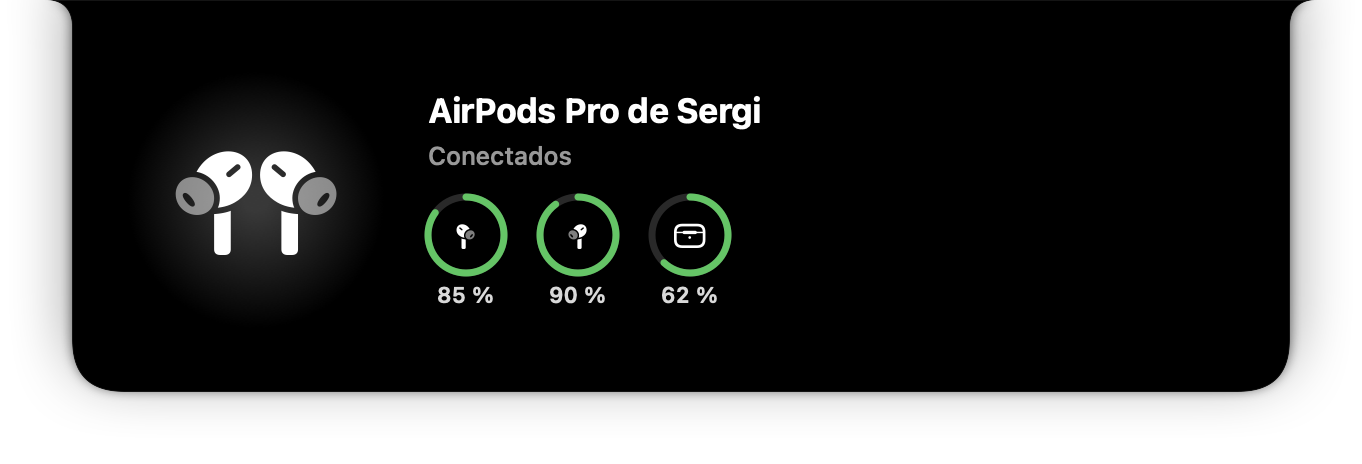
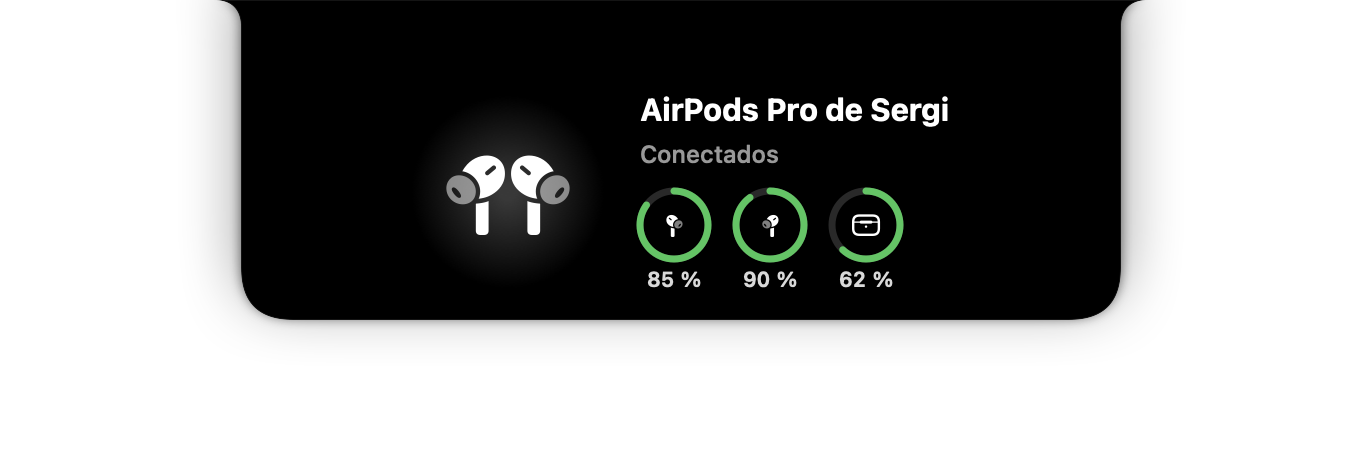
Tarjeta de AirPods más recogida y centrada, en la app y en la web

diff --git a/docs/site/index.html b/docs/site/index.html
@@ -79,25 +79,25 @@
   .stage .shape{position:absolute;left:36px;top:0;width:609px;height:196px;filter:drop-shadow(0 18px 40px rgba(0,0,0,.65))}
   .stage .media{position:absolute;left:0;top:0;width:681px;height:232px;transition:opacity .28s ease}
   .stage.on .media{opacity:0}
-  .hcard{position:absolute;left:36px;top:0;width:609px;height:196px;display:flex;align-items:center;gap:22px;padding:0 28px;box-sizing:border-box;opacity:0;transition:opacity .3s ease;pointer-events:none;color:#fff}
+  .hcard{position:absolute;left:120.5px;top:0;width:440px;height:160px;display:flex;align-items:center;justify-content:center;gap:18px;padding:32px 24px 0;box-sizing:border-box;opacity:0;transition:opacity .3s ease;pointer-events:none;color:#fff}
   .stage.on .hcard{opacity:1}
-  .hcard .dev{width:128px;height:128px;flex:none;display:flex;align-items:center;justify-content:center;background:radial-gradient(circle,rgba(255,255,255,.22) 0,rgba(255,255,255,0) 64px)}
-  .hcard .dev img{width:96px;transform:scale(.35) rotate(-14deg);opacity:0;transition:transform .6s cubic-bezier(.34,1.56,.64,1) .05s,opacity .35s ease .05s}
+  .hcard .dev{width:96px;height:96px;flex:none;display:flex;align-items:center;justify-content:center;background:radial-gradient(circle,rgba(255,255,255,.22) 0,rgba(255,255,255,0) 48px)}
+  .hcard .dev img{width:74px;transform:scale(.35) rotate(-14deg);opacity:0;transition:transform .6s cubic-bezier(.34,1.56,.64,1) .05s,opacity .35s ease .05s}
   .stage.on .hcard .dev img{transform:none;opacity:1}
   .hcard .txt{display:flex;flex-direction:column;gap:5px;opacity:0;transform:translateX(16px);transition:opacity .4s ease .1s,transform .55s cubic-bezier(.2,.8,.2,1) .1s}
   .stage.on .hcard .txt{opacity:1;transform:none}
-  .hcard .name{font-size:17px;font-weight:700;line-height:1.2}
-  .hcard .state{font-size:12.5px;font-weight:500;color:rgba(255,255,255,.6)}
-  .hcard .rings{display:flex;gap:18px;margin-top:8px;opacity:0;transform:scale(.6);transform-origin:left center;transition:opacity .35s ease,transform .5s cubic-bezier(.34,1.56,.64,1)}
+  .hcard .name{font-size:15.5px;font-weight:700;line-height:1.2}
+  .hcard .state{font-size:12px;font-weight:500;color:rgba(255,255,255,.6)}
+  .hcard .rings{display:flex;gap:14px;margin-top:6px;opacity:0;transform:scale(.6);transform-origin:left center;transition:opacity .35s ease,transform .5s cubic-bezier(.34,1.56,.64,1)}
   .stage.battery .hcard .rings{opacity:1;transform:none}
-  .ring{display:flex;flex-direction:column;align-items:center;gap:4px;font-size:11px;font-weight:600;font-variant-numeric:tabular-nums;color:rgba(255,255,255,.85)}
-  .ring svg{width:38px;height:38px;transform:rotate(-90deg)}
+  .ring{display:flex;flex-direction:column;align-items:center;gap:3px;font-size:10.5px;font-weight:600;font-variant-numeric:tabular-nums;color:rgba(255,255,255,.85)}
+  .ring svg{width:34px;height:34px;transform:rotate(-90deg)}
   .ring circle{fill:none;stroke-width:3.5;stroke-linecap:round}
   .ring .track{stroke:rgba(255,255,255,.16)}
   .ring .fill{stroke:#30d158;stroke-dasharray:106.8;stroke-dashoffset:106.8;transition:stroke-dashoffset .9s cubic-bezier(.2,.8,.2,1) .1s}
   .stage.battery .ring .fill{stroke-dashoffset:var(--off)}
   .ring img{position:absolute;width:13px;left:50%;top:50%;transform:translate(-50%,-50%)}
-  .ring .g{position:relative;width:38px;height:38px}
+  .ring .g{position:relative;width:34px;height:34px}
   .airpods{position:absolute;right:26px;bottom:18px;display:flex;align-items:center;gap:10px;padding:8px 14px 8px 10px;border-radius:999px;border:1px solid rgba(255,255,255,.18);background:rgba(255,255,255,.08);backdrop-filter:blur(12px);-webkit-backdrop-filter:blur(12px);color:#fff;font:600 13px -apple-system,"SF Pro Text",system-ui;cursor:pointer;transition:background .2s ease,transform .2s ease;animation:nudge 2.6s ease-in-out infinite}
   .airpods:hover{background:rgba(255,255,255,.16);transform:translateY(-1px)}
   .airpods img{width:34px;height:auto}
@@ -521,6 +521,11 @@
     let busy = false, timers = [];
     const later = (ms, fn) => timers.push(setTimeout(fn, ms));
     const count = (el, to, ms) => { const t0 = performance.now(); const step = now => { const k = Math.min(1, (now - t0) / ms); el.textContent = Math.round(to * (1 - Math.pow(1 - k, 3))) + ' %'; if (k < 1) requestAnimationFrame(step); }; requestAnimationFrame(step); };
+    const shape = stage.querySelector('.shape path');
+    const pathFor = (W, H) => { const r = 14, rb = 26; return `M0,0 L${W},0 Q${W - r},0 ${W - r},${r} L${W - r},${H - rb} Q${W - r},${H} ${W - r - rb},${H} L${r + rb},${H} Q${r},${H} ${r},${H - rb} L${r},${r} Q${r},0 0,0 Z`; };
+    const svg = shape.ownerSVGElement, FULL = [609, 196], CARD = [440, 160];
+    let morph = null;
+    const morphTo = (to, from, ms, delay) => { cancelAnimationFrame(morph); const t0 = performance.now() + delay; const step = now => { const k = Math.min(1, Math.max(0, (now - t0) / ms)); const e = 1 - Math.pow(1 - k, 3); const W = from[0] + (to[0] - from[0]) * e, H = from[1] + (to[1] - from[1]) * e; svg.setAttribute('viewBox', `0 0 ${W} ${H}`); svg.style.width = W + 'px'; svg.style.height = H + 'px'; svg.style.left = (36 + (609 - W) / 2) + 'px'; shape.setAttribute('d', pathFor(W, H)); if (k < 1) morph = requestAnimationFrame(step); }; morph = requestAnimationFrame(step); };
     const fit = () => { const w = stage.parentElement.clientWidth; stage.style.setProperty('--s', Math.min(1, (w - 16) / 681)); };
     fit(); addEventListener('resize', fit);
     const play = () => {
@@ -528,8 +533,9 @@
       busy = true; timers.forEach(clearTimeout); timers = [];
       button.classList.add('busy'); label.textContent = 'Conectando…';
       stage.classList.add('on');
+      morphTo(CARD, FULL, 420, 120);
       later(900, () => { label.textContent = 'Conectados'; stage.classList.add('battery'); counters.forEach(c => count(c, +c.dataset.count, 900)); });
-      later(3400, () => { stage.classList.remove('on', 'battery'); counters.forEach(c => c.textContent = '0 %'); });
+      later(3400, () => { stage.classList.remove('on', 'battery'); counters.forEach(c => c.textContent = '0 %'); morphTo(FULL, CARD, 380, 60); });
       later(3900, () => { button.classList.remove('busy'); label.textContent = 'Toca los AirPods'; busy = false; });
     };
     button.addEventListener('click', play);

diff --git a/docs/site/en/index.html b/docs/site/en/index.html
@@ -79,25 +79,25 @@
   .stage .shape{position:absolute;left:36px;top:0;width:609px;height:196px;filter:drop-shadow(0 18px 40px rgba(0,0,0,.65))}
   .stage .media{position:absolute;left:0;top:0;width:681px;height:232px;transition:opacity .28s ease}
   .stage.on .media{opacity:0}
-  .hcard{position:absolute;left:36px;top:0;width:609px;height:196px;display:flex;align-items:center;gap:22px;padding:0 28px;box-sizing:border-box;opacity:0;transition:opacity .3s ease;pointer-events:none;color:#fff}
+  .hcard{position:absolute;left:120.5px;top:0;width:440px;height:160px;display:flex;align-items:center;justify-content:center;gap:18px;padding:32px 24px 0;box-sizing:border-box;opacity:0;transition:opacity .3s ease;pointer-events:none;color:#fff}
   .stage.on .hcard{opacity:1}
-  .hcard .dev{width:128px;height:128px;flex:none;display:flex;align-items:center;justify-content:center;background:radial-gradient(circle,rgba(255,255,255,.22) 0,rgba(255,255,255,0) 64px)}
-  .hcard .dev img{width:96px;transform:scale(.35) rotate(-14deg);opacity:0;transition:transform .6s cubic-bezier(.34,1.56,.64,1) .05s,opacity .35s ease .05s}
+  .hcard .dev{width:96px;height:96px;flex:none;display:flex;align-items:center;justify-content:center;background:radial-gradient(circle,rgba(255,255,255,.22) 0,rgba(255,255,255,0) 48px)}
+  .hcard .dev img{width:74px;transform:scale(.35) rotate(-14deg);opacity:0;transition:transform .6s cubic-bezier(.34,1.56,.64,1) .05s,opacity .35s ease .05s}
   .stage.on .hcard .dev img{transform:none;opacity:1}
   .hcard .txt{display:flex;flex-direction:column;gap:5px;opacity:0;transform:translateX(16px);transition:opacity .4s ease .1s,transform .55s cubic-bezier(.2,.8,.2,1) .1s}
   .stage.on .hcard .txt{opacity:1;transform:none}
-  .hcard .name{font-size:17px;font-weight:700;line-height:1.2}
-  .hcard .state{font-size:12.5px;font-weight:500;color:rgba(255,255,255,.6)}
-  .hcard .rings{display:flex;gap:18px;margin-top:8px;opacity:0;transform:scale(.6);transform-origin:left center;transition:opacity .35s ease,transform .5s cubic-bezier(.34,1.56,.64,1)}
+  .hcard .name{font-size:15.5px;font-weight:700;line-height:1.2}
+  .hcard .state{font-size:12px;font-weight:500;color:rgba(255,255,255,.6)}
+  .hcard .rings{display:flex;gap:14px;margin-top:6px;opacity:0;transform:scale(.6);transform-origin:left center;transition:opacity .35s ease,transform .5s cubic-bezier(.34,1.56,.64,1)}
   .stage.battery .hcard .rings{opacity:1;transform:none}
-  .ring{display:flex;flex-direction:column;align-items:center;gap:4px;font-size:11px;font-weight:600;font-variant-numeric:tabular-nums;color:rgba(255,255,255,.85)}
-  .ring svg{width:38px;height:38px;transform:rotate(-90deg)}
+  .ring{display:flex;flex-direction:column;align-items:center;gap:3px;font-size:10.5px;font-weight:600;font-variant-numeric:tabular-nums;color:rgba(255,255,255,.85)}
+  .ring svg{width:34px;height:34px;transform:rotate(-90deg)}
   .ring circle{fill:none;stroke-width:3.5;stroke-linecap:round}
   .ring .track{stroke:rgba(255,255,255,.16)}
   .ring .fill{stroke:#30d158;stroke-dasharray:106.8;stroke-dashoffset:106.8;transition:stroke-dashoffset .9s cubic-bezier(.2,.8,.2,1) .1s}
   .stage.battery .ring .fill{stroke-dashoffset:var(--off)}
   .ring img{position:absolute;width:13px;left:50%;top:50%;transform:translate(-50%,-50%)}
-  .ring .g{position:relative;width:38px;height:38px}
+  .ring .g{position:relative;width:34px;height:34px}
   .airpods{position:absolute;right:26px;bottom:18px;display:flex;align-items:center;gap:10px;padding:8px 14px 8px 10px;border-radius:999px;border:1px solid rgba(255,255,255,.18);background:rgba(255,255,255,.08);backdrop-filter:blur(12px);-webkit-backdrop-filter:blur(12px);color:#fff;font:600 13px -apple-system,"SF Pro Text",system-ui;cursor:pointer;transition:background .2s ease,transform .2s ease;animation:nudge 2.6s ease-in-out infinite}
   .airpods:hover{background:rgba(255,255,255,.16);transform:translateY(-1px)}
   .airpods img{width:34px;height:auto}
@@ -521,6 +521,11 @@
     let busy = false, timers = [];
     const later = (ms, fn) => timers.push(setTimeout(fn, ms));
     const count = (el, to, ms) => { const t0 = performance.now(); const step = now => { const k = Math.min(1, (now - t0) / ms); el.textContent = Math.round(to * (1 - Math.pow(1 - k, 3))) + ' %'; if (k < 1) requestAnimationFrame(step); }; requestAnimationFrame(step); };
+    const shape = stage.querySelector('.shape path');
+    const pathFor = (W, H) => { const r = 14, rb = 26; return `M0,0 L${W},0 Q${W - r},0 ${W - r},${r} L${W - r},${H - rb} Q${W - r},${H} ${W - r - rb},${H} L${r + rb},${H} Q${r},${H} ${r},${H - rb} L${r},${r} Q${r},0 0,0 Z`; };
+    const svg = shape.ownerSVGElement, FULL = [609, 196], CARD = [440, 160];
+    let morph = null;
+    const morphTo = (to, from, ms, delay) => { cancelAnimationFrame(morph); const t0 = performance.now() + delay; const step = now => { const k = Math.min(1, Math.max(0, (now - t0) / ms)); const e = 1 - Math.pow(1 - k, 3); const W = from[0] + (to[0] - from[0]) * e, H = from[1] + (to[1] - from[1]) * e; svg.setAttribute('viewBox', `0 0 ${W} ${H}`); svg.style.width = W + 'px'; svg.style.height = H + 'px'; svg.style.left = (36 + (609 - W) / 2) + 'px'; shape.setAttribute('d', pathFor(W, H)); if (k < 1) morph = requestAnimationFrame(step); }; morph = requestAnimationFrame(step); };
     const fit = () => { const w = stage.parentElement.clientWidth; stage.style.setProperty('--s', Math.min(1, (w - 16) / 681)); };
     fit(); addEventListener('resize', fit);
     const play = () => {
@@ -528,8 +533,9 @@
       busy = true; timers.forEach(clearTimeout); timers = [];
       button.classList.add('busy'); label.textContent = 'Connecting…';
       stage.classList.add('on');
+      morphTo(CARD, FULL, 420, 120);
       later(900, () => { label.textContent = 'Connected'; stage.classList.add('battery'); counters.forEach(c => count(c, +c.dataset.count, 900)); });
-      later(3400, () => { stage.classList.remove('on', 'battery'); counters.forEach(c => c.textContent = '0 %'); });
+      later(3400, () => { stage.classList.remove('on', 'battery'); counters.forEach(c => c.textContent = '0 %'); morphTo(FULL, CARD, 380, 60); });
       later(3900, () => { button.classList.remove('busy'); label.textContent = 'Tap the AirPods'; busy = false; });
     };
     button.addEventListener('click', play);

diff --git a/Sources/OmniMac/Features/Notch/Tabs/HeadphonesCard.swift b/Sources/OmniMac/Features/Notch/Tabs/HeadphonesCard.swift
@@ -8,45 +8,45 @@ struct HeadphonesCard: View {
     @State private var appeared = false
 
     var body: some View {
-        HStack(spacing: 22) {
+        HStack(spacing: 18) {
             ZStack {
                 Circle()
-                    .fill(RadialGradient(colors: [.white.opacity(0.22), .clear], center: .center, startRadius: 6, endRadius: 64))
-                    .frame(width: 128, height: 128)
+                    .fill(RadialGradient(colors: [.white.opacity(0.22), .clear], center: .center, startRadius: 4, endRadius: 48))
+                    .frame(width: 96, height: 96)
                 Image(systemName: info.symbol)
-                    .font(.system(size: 60, weight: .regular))
+                    .font(.system(size: 46, weight: .regular))
                     .foregroundStyle(.white)
                     .scaleEffect(appeared ? 1 : 0.35)
                     .rotationEffect(.degrees(appeared ? 0 : -14))
                     .opacity(appeared ? 1 : 0)
             }
-            .frame(width: 128)
+            .frame(width: 96)
 
             VStack(alignment: .leading, spacing: 5) {
                 Text(info.name)
-                    .font(.system(size: 17, weight: .bold))
+                    .font(.system(size: 15.5, weight: .bold))
                     .foregroundStyle(.white)
                     .lineLimit(1)
                 Text("Conectados")
-                    .font(.system(size: 12.5, weight: .medium))
+                    .font(.system(size: 12, weight: .medium))
                     .foregroundStyle(.white.opacity(0.6))
                 if info.hasBattery {
-                    HStack(spacing: 18) {
+                    HStack(spacing: 14) {
                         if let level = info.left { gauge(level, symbol: info.leftSymbol, fallback: "I") }
                         if let level = info.right { gauge(level, symbol: info.rightSymbol, fallback: "D") }
                         if let level = info.caseLevel { gauge(level, symbol: info.caseSymbol, fallback: "E") }
                         if let level = info.main { gauge(level, symbol: info.symbol, fallback: "") }
                     }
-                    .padding(.top, 8)
+                    .padding(.top, 6)
                     .transition(.scale(scale: 0.6, anchor: .leading).combined(with: .opacity))
                 }
             }
             .opacity(appeared ? 1 : 0)
             .offset(x: appeared ? 0 : 16)
-            Spacer(minLength: 0)
         }
-        .padding(.horizontal, 28)
-        .frame(maxWidth: .infinity, maxHeight: .infinity)
+        .fixedSize()
+        .padding(.horizontal, 24)
+        .frame(maxWidth: .infinity, maxHeight: .infinity, alignment: .center)
         .animation(.spring(response: 0.5, dampingFraction: 0.7), value: info)
         .onAppear {
             withAnimation(.spring(response: 0.55, dampingFraction: 0.66).delay(0.05)) { appeared = true }
@@ -62,14 +62,14 @@ struct HeadphonesCard: View {
                     .stroke(color(for: level), style: StrokeStyle(lineWidth: 3.5, lineCap: .round))
                     .rotationEffect(.degrees(-90))
                 if let symbol {
-                    Image(systemName: symbol).font(.system(size: 14, weight: .medium)).foregroundStyle(.white)
+                    Image(systemName: symbol).font(.system(size: 12.5, weight: .medium)).foregroundStyle(.white)
                 } else {
                     Text(fallback).font(.system(size: 12, weight: .bold)).foregroundStyle(.white)
                 }
             }
-            .frame(width: 38, height: 38)
+            .frame(width: 34, height: 34)
             Text("\(level) %")
-                .font(.system(size: 11, weight: .semibold).monospacedDigit())
+                .font(.system(size: 10.5, weight: .semibold).monospacedDigit())
                 .foregroundStyle(.white.opacity(0.85))
         }
     }

diff --git a/Sources/OmniMac/Features/Notch/NotchView.swift b/Sources/OmniMac/Features/Notch/NotchView.swift
@@ -107,6 +107,7 @@ struct NotchView: View {
                     Color.clear.frame(height: max(2, model.notchSize.height - 28))
                     if let card = model.deviceCard {
                         HeadphonesCard(info: card)
+                            .padding(.top, 28)   // debajo del notch físico
                             .transition(.opacity)
                     } else {
                         controlBar
@@ -146,8 +147,9 @@ struct NotchView: View {
     /// Plegado = el notch exacto; con vistazo rápido crece un poco; expandido, todo.
     private var shapeSize: CGSize {
         if model.expanded {
-            return CGSize(width: model.expandedSize.width + NotchExpandedShape.flare * 2,
-                          height: model.expandedSize.height)
+            let size = model.deviceCard != nil ? model.cardSize : model.expandedSize
+            return CGSize(width: size.width + NotchExpandedShape.flare * 2,
+                          height: size.height)
         }
         if model.peek != nil {
             return model.peekSize

diff --git a/Sources/OmniMac/Features/Notch/NotchFeature.swift b/Sources/OmniMac/Features/Notch/NotchFeature.swift
@@ -271,6 +271,10 @@ final class NotchModel: ObservableObject {
     var peekSize: CGSize {
         CGSize(width: peekWidth, height: notchSize.height + Self.peekExtraHeight)
     }
+    /// Tarjeta «AirPods conectados»: un panel más recogido y centrado que el de pestañas.
+    var cardSize: CGSize {
+        CGSize(width: max(440, notchSize.width + 250), height: 160)
+    }
 
     var onHoverChange: ((Bool) -> Void)?
     var onExpandRequest: (() -> Void)?

diff --git a/CHANGELOG.md b/CHANGELOG.md
@@ -1,5 +1,9 @@
 # Cambios
 
+## Sin publicar
+
+- Notch: la tarjeta de AirPods se abre en un panel más recogido (440×160) con el contenido centrado y se pliega antes (3,2 s; 2,2 s tras la batería).
+
 ## 0.3.1 — 2026-09-04
 
 - Notch: al conectar AirPods o Beats se despliega con una tarjeta animada al estilo iPhone (modelo y batería de cada pieza) y se pliega solo; opción para cerrar el aviso de macOS (experimental). Sin pedir permisos.
